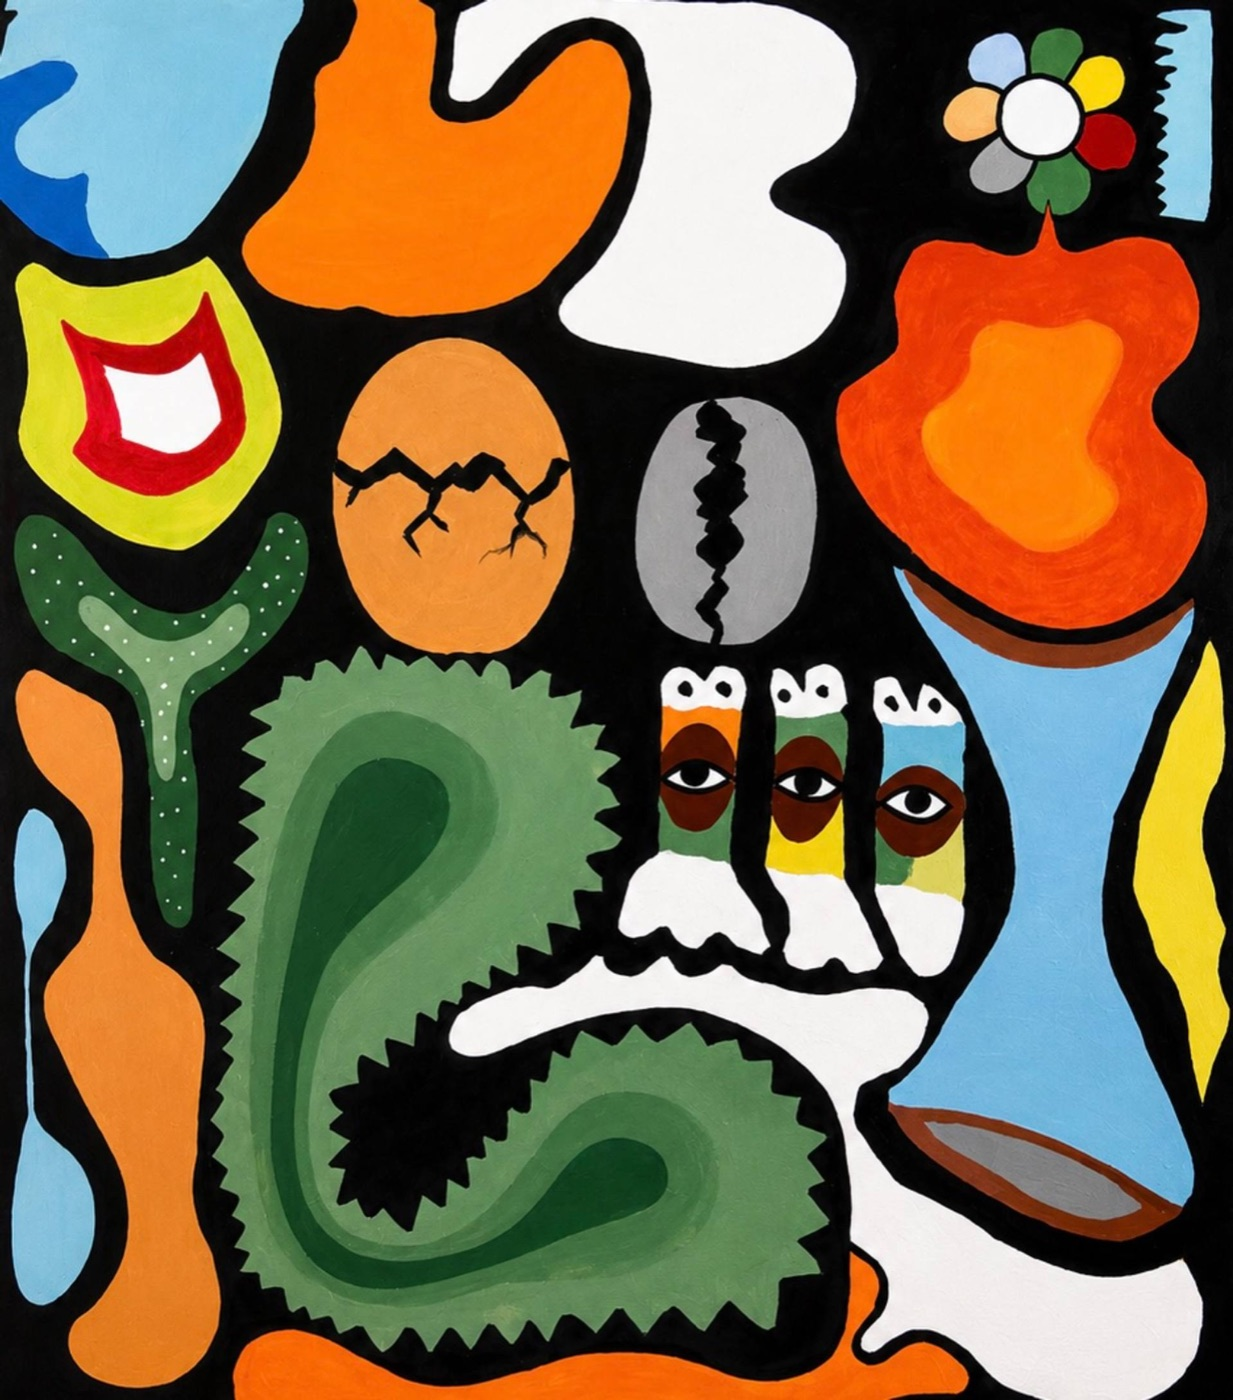
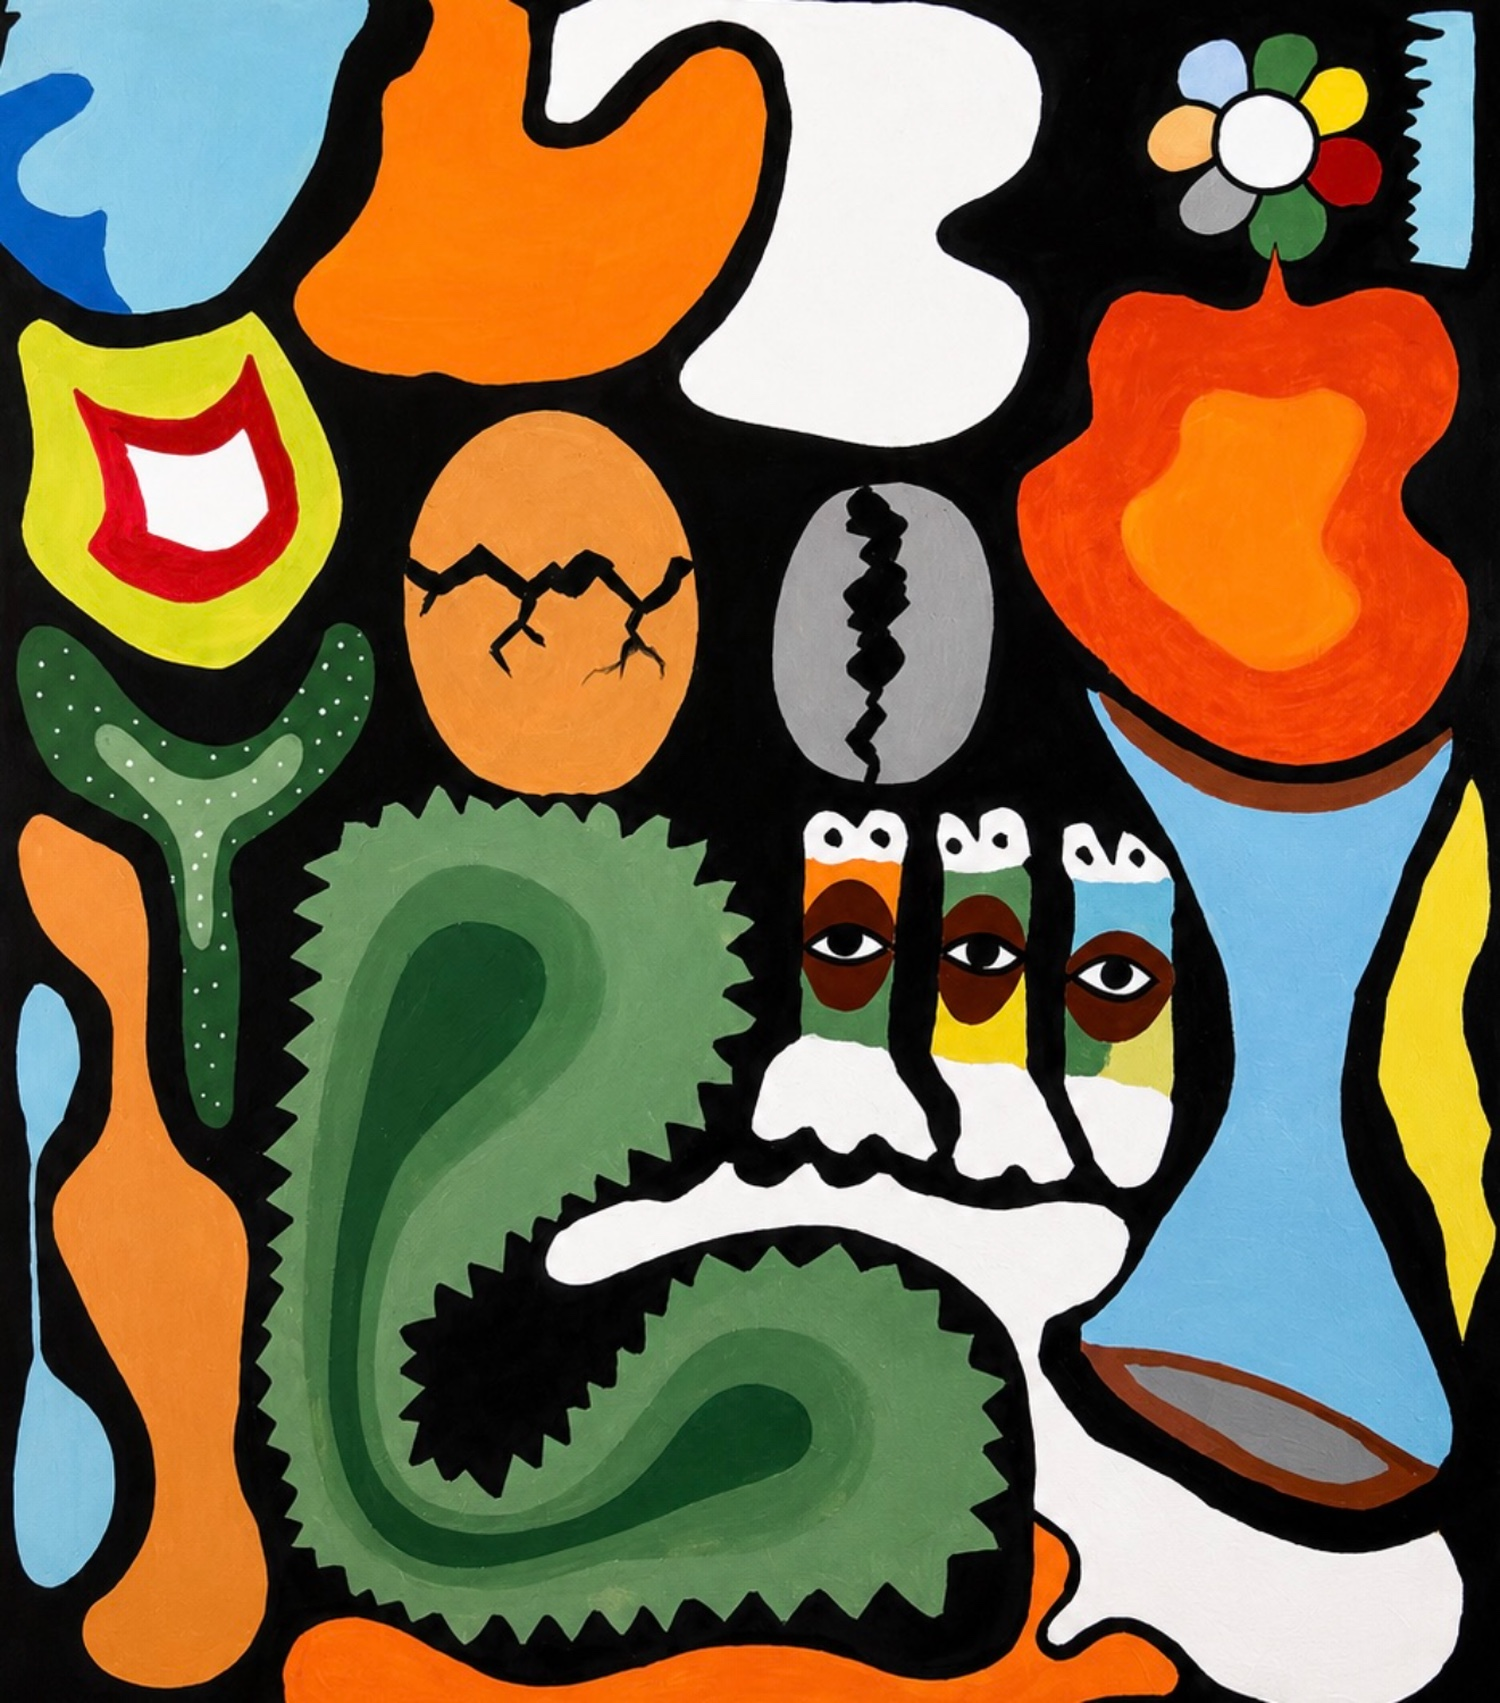
Update Rebirth (Atunbi) artwork image and raise price to $9,000
Replace the cropped painting photo with a full/proper image and
update the listed price everywhere it appears on the artwork page
and homepage gallery card.

diff --git a/rebirth.html b/rebirth.html
@@ -4,7 +4,7 @@
     <meta charset="UTF-8">
     <meta name="viewport" content="width=device-width, initial-scale=1.0">
     <title>Rebirth (Atunbi) — African Symbolism Painting by Elijah Snoz | For Sale</title>
-    <meta name="description" content="\"Rebirth\" (Atunbi) — an original acrylic-on-canvas African symbolism painting by Elijah Snoz (Ajayi VII). Cracked egg, cowries and three eyes explore renewal and Yoruba heritage. 36×48in, 2025. For sale, $2,000.">
+    <meta name="description" content="\"Rebirth\" (Atunbi) — an original acrylic-on-canvas African symbolism painting by Elijah Snoz (Ajayi VII). Cracked egg, cowries and three eyes explore renewal and Yoruba heritage. 36×48in, 2025. For sale, $9,000.">
     <meta name="keywords" content="African art, Nigerian art, Yoruba art, Yoruba symbolism, Atunbi, Rebirth painting, Elijah Snoz, Ajayi VII, buy African art, contemporary African painting, African painting for sale, acrylic on canvas painting, symbolism painting, Nike Art Gallery Abuja, original painting for sale, African abstract art">
     <meta name="author" content="Elijah Snoz">
     <meta name="robots" content="index, follow, max-image-preview:large, max-snippet:-1, max-video-preview:-1">
@@ -15,11 +15,11 @@
     <meta property="og:type" content="og:product">
     <meta property="og:site_name" content="Elijah Snoz — Planet-B">
     <meta property="og:title" content="Rebirth (Atunbi) — Original Painting by Elijah Snoz (Ajayi VII)">
-    <meta property="og:description" content="An original acrylic-on-canvas African symbolism painting exploring renewal, heritage and enlightenment. 36×48in, 2025. For sale, $2,000.">
+    <meta property="og:description" content="An original acrylic-on-canvas African symbolism painting exploring renewal, heritage and enlightenment. 36×48in, 2025. For sale, $9,000.">
     <meta property="og:url" content="https://elijahsnoz.me/rebirth.html">
     <meta property="og:image" content="https://elijahsnoz.me/images/rebirth/rebirth-atunbi.jpg">
-    <meta property="og:image:width" content="1233">
-    <meta property="og:image:height" content="1400">
+    <meta property="og:image:width" content="1500">
+    <meta property="og:image:height" content="1703">
     <meta property="og:image:alt" content="Rebirth (Atunbi) — African symbolism painting by Elijah Snoz (Ajayi VII)">
     <meta property="twitter:card" content="summary_large_image">
     <meta name="twitter:site" content="@elijahsnoz">
@@ -88,7 +88,7 @@
       "brand": { "@type": "Brand", "name": "Ajayi VII" },
       "offers": {
         "@type": "Offer",
-        "price": "2000",
+        "price": "9000",
         "priceCurrency": "USD",
         "availability": "https://schema.org/InStock",
         "itemCondition": "https://schema.org/NewCondition",
@@ -131,7 +131,7 @@
         {
           "@type": "Question",
           "name": "How can I buy this African painting?",
-          "acceptedAnswer": { "@type": "Answer", "text": "Rebirth (Atunbi) is for sale for $2,000. You can purchase it through the artist's Saatchi Art listing or enquire directly with Elijah Snoz using the form on this page or by emailing elijahsnoz@gmail.com." }
+          "acceptedAnswer": { "@type": "Answer", "text": "Rebirth (Atunbi) is for sale for $9,000. You can purchase it through the artist's Saatchi Art listing or enquire directly with Elijah Snoz using the form on this page or by emailing elijahsnoz@gmail.com." }
         }
       ]
     }
@@ -235,7 +235,7 @@
     <h1>Rebirth</h1>
     <span class="rb-alt">Atunbi — "Reborn," in Yoruba</span>
     <p class="lede">A one-of-a-kind acrylic-on-canvas painting by Nigerian artist <strong>Elijah Snoz (Ajayi VII)</strong>. Through a cracked egg, cowrie shells and three watching eyes, <em>Rebirth</em> explores transformation, heritage and the quiet power of becoming — a piece of contemporary African art rooted in Yoruba symbolism.</p>
-    <p class="rb-price">$2,000 <span>· Acrylic on canvas · 2025</span></p>
+    <p class="rb-price">$9,000 <span>· Acrylic on canvas · 2025</span></p>
     <div class="rb-cta">
         <a href="#enquire" class="btn btn-primary"><i class="fas fa-envelope"></i> Enquire to Collect</a>
         <a href="https://www.saatchiart.com/art/Painting-Rebrith/2547663/14101037/view" target="_blank" rel="noopener" class="btn btn-ghost"><i class="fas fa-store"></i> View on Saatchi Art</a>
@@ -244,7 +244,7 @@
 
 <main class="rb-wrap">
     <figure class="rb-main-frame">
-        <img src="images/rebirth/rebirth-atunbi.jpg" alt="Rebirth (Atunbi) — African symbolism painting by Elijah Snoz (Ajayi VII), acrylic on canvas, 2025, featuring a cracked egg, cowries and three eyes" width="1233" height="1400" loading="eager">
+        <img src="images/rebirth/rebirth-atunbi.jpg" alt="Rebirth (Atunbi) — African symbolism painting by Elijah Snoz (Ajayi VII), acrylic on canvas, 2025, featuring a cracked egg, cowries and three eyes" width="1500" height="1703" loading="eager">
     </figure>
     <p class="rb-signed">Signed lower right, "Ajayi vii" — Elijah Snoz's studio signature.</p>
 
@@ -272,7 +272,7 @@
         <div class="rb-fact glass">
             <i class="fas fa-tag"></i>
             <h3>Status</h3>
-            <p>For sale · Qty 1<small>$2,000 USD</small></p>
+            <p>For sale · Qty 1<small>$9,000 USD</small></p>
         </div>
         <div class="rb-fact glass">
             <i class="fas fa-box"></i>
@@ -319,8 +319,8 @@
         <h2>Own "Rebirth"</h2>
         <p>This is the only original of this painting — not a print. Buy it directly through Saatchi Art, or reach out to Elijah for a direct studio sale.</p>
         <div class="rb-cta">
-            <a href="https://www.saatchiart.com/art/Painting-Rebrith/2547663/14101037/view" target="_blank" rel="noopener" class="btn btn-primary"><i class="fas fa-store"></i> Buy on Saatchi Art — $2,000</a>
-            <a href="mailto:elijahsnoz@gmail.com?subject=Artwork%20enquiry%20%E2%80%94%20Rebirth%20(Atunbi)&amp;body=Hi%20Elijah%2C%0A%0AI'd%20like%20to%20enquire%20about%20collecting%20%22Rebirth%20(Atunbi)%2C%22%20the%20acrylic-on-canvas%20painting%20listed%20at%20%242%2C000.%0A%0A" class="btn btn-ghost"><i class="fas fa-paper-plane"></i> Email Elijah Directly</a>
+            <a href="https://www.saatchiart.com/art/Painting-Rebrith/2547663/14101037/view" target="_blank" rel="noopener" class="btn btn-primary"><i class="fas fa-store"></i> Buy on Saatchi Art — $9,000</a>
+            <a href="mailto:elijahsnoz@gmail.com?subject=Artwork%20enquiry%20%E2%80%94%20Rebirth%20(Atunbi)&amp;body=Hi%20Elijah%2C%0A%0AI'd%20like%20to%20enquire%20about%20collecting%20%22Rebirth%20(Atunbi)%2C%22%20the%20acrylic-on-canvas%20painting%20listed%20at%20%249%2C000.%0A%0A" class="btn btn-ghost"><i class="fas fa-paper-plane"></i> Email Elijah Directly</a>
         </div>
     </section>
 
@@ -329,7 +329,7 @@
         <p class="sub">Ask about availability, shipping to your country, or arrange to view "Rebirth" in person at the Nike Art Gallery, Abuja.</p>
         <form id="enquireForm" onsubmit="handleEnquiry(event)">
             <input type="hidden" name="_subject" value="Artwork enquiry — Rebirth (Atunbi)">
-            <input type="hidden" name="artwork" value="Rebirth (Atunbi), 2025, acrylic on canvas, 36x48in, $2,000">
+            <input type="hidden" name="artwork" value="Rebirth (Atunbi), 2025, acrylic on canvas, 36x48in, $9,000">
             <div class="row">
                 <input type="text" name="name" placeholder="Your name" required aria-label="Your name">
                 <input type="email" name="email" placeholder="your@email.com" required aria-label="Email address">
@@ -357,7 +357,7 @@
         </div>
         <div class="rb-faq-item">
             <h3>How do I buy this piece of African art?</h3>
-            <p>"Rebirth" is priced at <strong>$2,000</strong>. Buy it via the artist's <a href="https://www.saatchiart.com/art/Painting-Rebrith/2547663/14101037/view" target="_blank" rel="noopener">Saatchi Art listing</a>, or enquire directly using the form above or at <a href="mailto:elijahsnoz@gmail.com">elijahsnoz@gmail.com</a>.</p>
+            <p>"Rebirth" is priced at <strong>$9,000</strong>. Buy it via the artist's <a href="https://www.saatchiart.com/art/Painting-Rebrith/2547663/14101037/view" target="_blank" rel="noopener">Saatchi Art listing</a>, or enquire directly using the form above or at <a href="mailto:elijahsnoz@gmail.com">elijahsnoz@gmail.com</a>.</p>
         </div>
     </section>
 </main>

diff --git a/index.html b/index.html
@@ -172,7 +172,7 @@
           "name": "Rebirth (Atunbi)",
           "creditText": "Elijah Snoz",
           "creator": { "@type": "Person", "name": "Elijah Snoz" },
-          "description": "Rebirth (Atunbi) — an African symbolism painting by Elijah Snoz (Ajayi VII) exploring renewal through a cracked egg, cowries and three eyes. Acrylic on canvas, 2025. For sale, $2,000."
+          "description": "Rebirth (Atunbi) — an African symbolism painting by Elijah Snoz (Ajayi VII) exploring renewal through a cracked egg, cowries and three eyes. Acrylic on canvas, 2025. For sale, $9,000."
         },
         {
           "@type": "ImageObject",
@@ -399,9 +399,9 @@
             </div>
 
             <a href="rebirth.html" class="featured-work">
-                <div class="fw-img"><img src="images/rebirth/rebirth-atunbi.jpg" alt="Rebirth (Atunbi) — African symbolism painting by Elijah Snoz (Ajayi VII), acrylic on canvas, 2025" loading="lazy" width="1233" height="1400"></div>
+                <div class="fw-img"><img src="images/rebirth/rebirth-atunbi.jpg" alt="Rebirth (Atunbi) — African symbolism painting by Elijah Snoz (Ajayi VII), acrylic on canvas, 2025" loading="lazy" width="1500" height="1703"></div>
                 <div>
-                    <span class="fw-tag"><i class="fas fa-egg"></i> Now for Sale · $2,000</span>
+                    <span class="fw-tag"><i class="fas fa-egg"></i> Now for Sale · $9,000</span>
                     <h3>Rebirth (Atunbi)</h3>
                     <p>A cracked egg, cowries and three watching eyes — an acrylic-on-canvas painting of transformation and Yoruba heritage. 36×48in, 2025.</p>
                     <span class="btn btn-ghost">View the Painting <i class="fas fa-arrow-right"></i></span>
